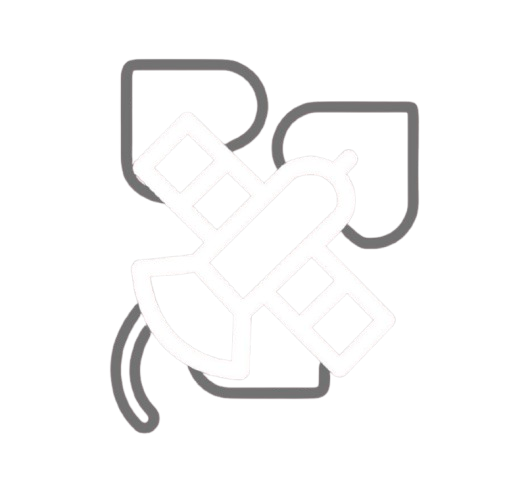
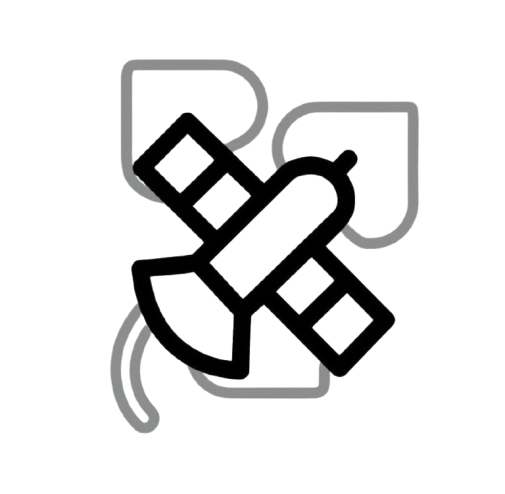
updated isc page

Changed region(s): [[0.2079, 0.1215, 0.8317, 0.8806]]

diff --git a/src/components/space-conference.tsx b/src/components/space-conference.tsx
@@ -10,13 +10,25 @@ import { motion } from "framer-motion";
 
 import { Instagram } from 'lucide-react';
 
+const aerospaceOrganizations = [
+  "Yale Undergraduate Aerospace Association",
+  "Princeton Rocketry",
+  "Columbia Space Initiative",
+  "Brown Space Engineering",
+  "Brown Rocketry",
+  "Northeastern TeraLink",
+  "Wharton Undergraduate Aerospace Club",
+  "Cornell Rocketry",
+  "Dartmouth Rocketry Team",
+  "Harvard SEDS"
+];
 
 const ISC = () => {
     return (
         <div className="mt-12">
             <h1 className="purple-fancy-title text-center text-8xl fade-in font-semibold">Ivy Space Conference</h1>
             <div className="flex mt-8 w-3/4 mx-auto">
-                <img src="Ivy Space Coalition.png"></img>
+                <img src="Ivy Space Coalition.png" className="dark:invert display"></img>
                 <div className="bg-white"></div>
                 <motion.div
                     initial={{ opacity: 0, x: 100 }}
@@ -36,10 +48,9 @@ const ISC = () => {
                         <p className="text-2xl mt-8"><span>Where: </span><span className="font-bold">Brown University</span></p>
                         <p className="text-2xl mt-8"><span>Dates: </span><span className="font-bold">April 5-6, 2025</span></p>
                         <p className="text-xl text-center mx-8 mt-8 font-semibold">
-                            Want to join universities across the Ivy League and in the Boston area for two days of run panels, research discussions, and showcases?
+                            Join us for presentations on aerospace industry and research, student showcase sessions, speakers from the <span className="font-bold">ISS National Lab, NASA JPL, and Rocketlab</span>; opportunities to learn from and present to others, and more! Keep an eye on this page for day-of details, coming soon...
                         </p>
                         <p className="text-xl text-center mx-8 mt-2 font-semibold">
-                            Reach out to your University rocketry or cubesat club and have them contact us!
                         </p>
                         <div className="flex flex-row">
                             <p className="text-xl text-center ml-8 mr-2 my-8 font-semibold"> Reach out to us at <a href="https://www.instagram.com/ivyspaceco/">@ivyspaceco</a></p>
@@ -52,6 +63,19 @@ const ISC = () => {
 
                 </motion.div>
             </div>
+            <div className="get-involved mt-12 w-2/3 mx-auto">
+              <h1 className="red-fancy-title text-center text-6xl mb-8">Get Involved</h1>
+              <Card className="bg-muted/50 relative mt-8 flex flex-col  items-center">
+                    <h1 className="text-3xl m-6">If your school has any of the following clubs, please register with them:</h1>
+                    <ul className="text-xl text-center">
+                      {aerospaceOrganizations.map((org, i) => (
+                        <li className="mb-2" key={i}>{org}</li>
+                      ))}
+                    </ul>
+                    <h1 className="text-3xl m-6">Otherwise, reach out to us on Instagram or at <span className="underline"><a href="mailto:bse@brown.edu">bse@brown.edu</a></span> and we'll see what we can do!</h1>
+              </Card>
+            </div>
+            
             {/*}
             <div className="more-info mt-12">
                 <h1 className="red-fancy-title text-center text-6xl mb-8">Schedule</h1>
